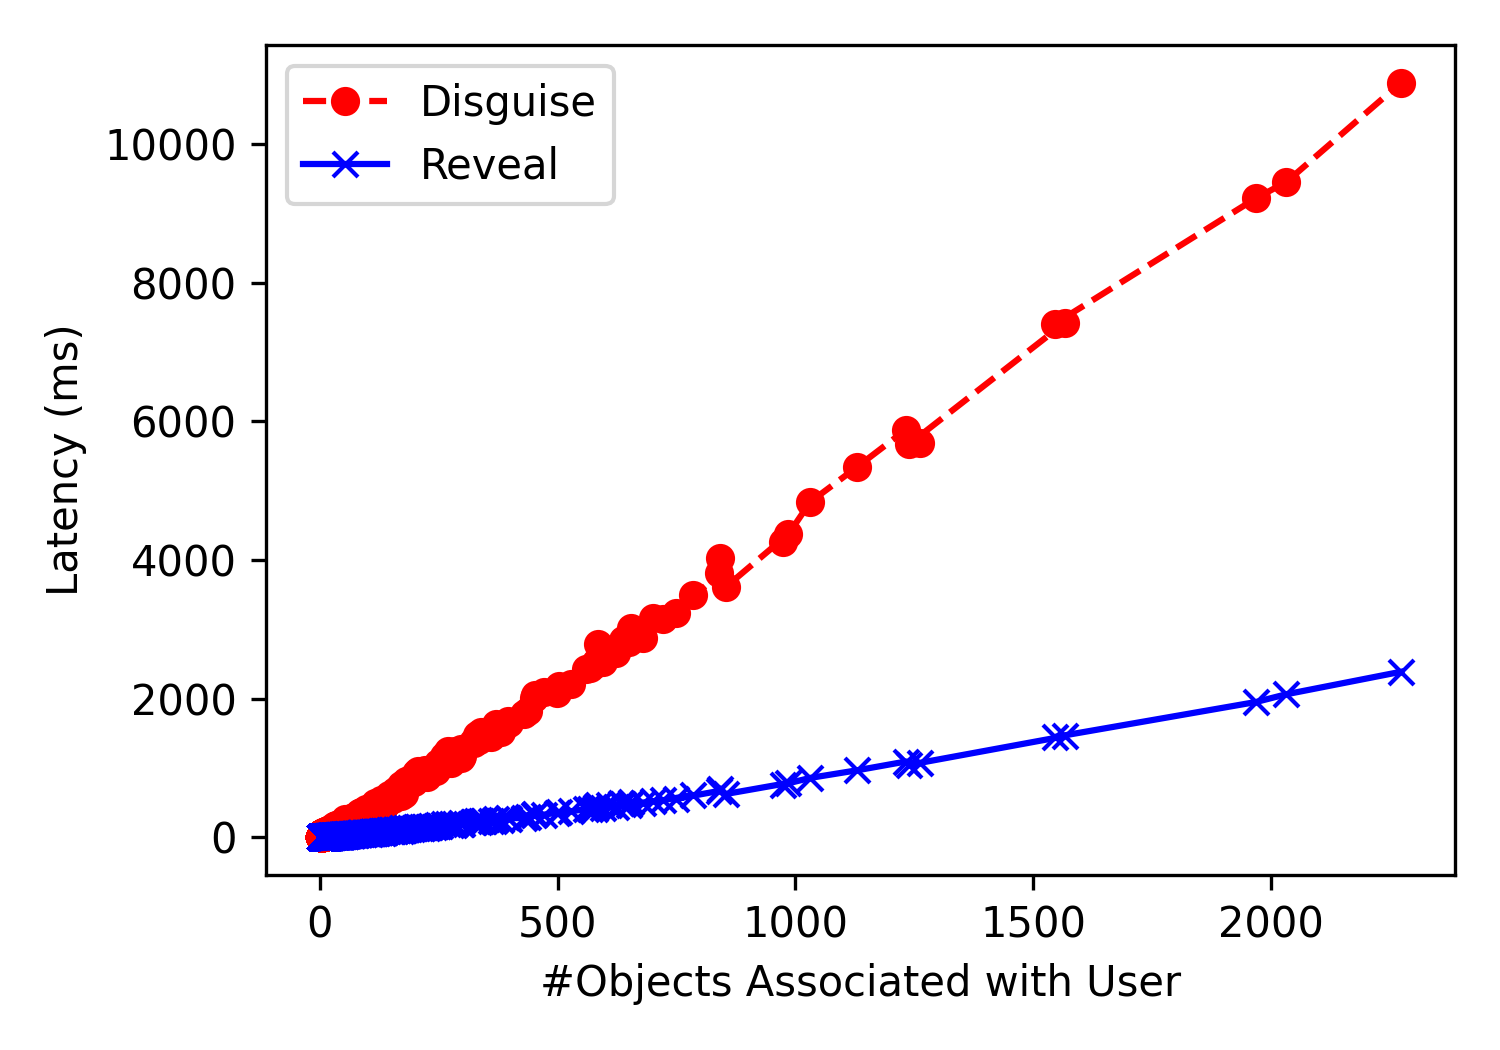
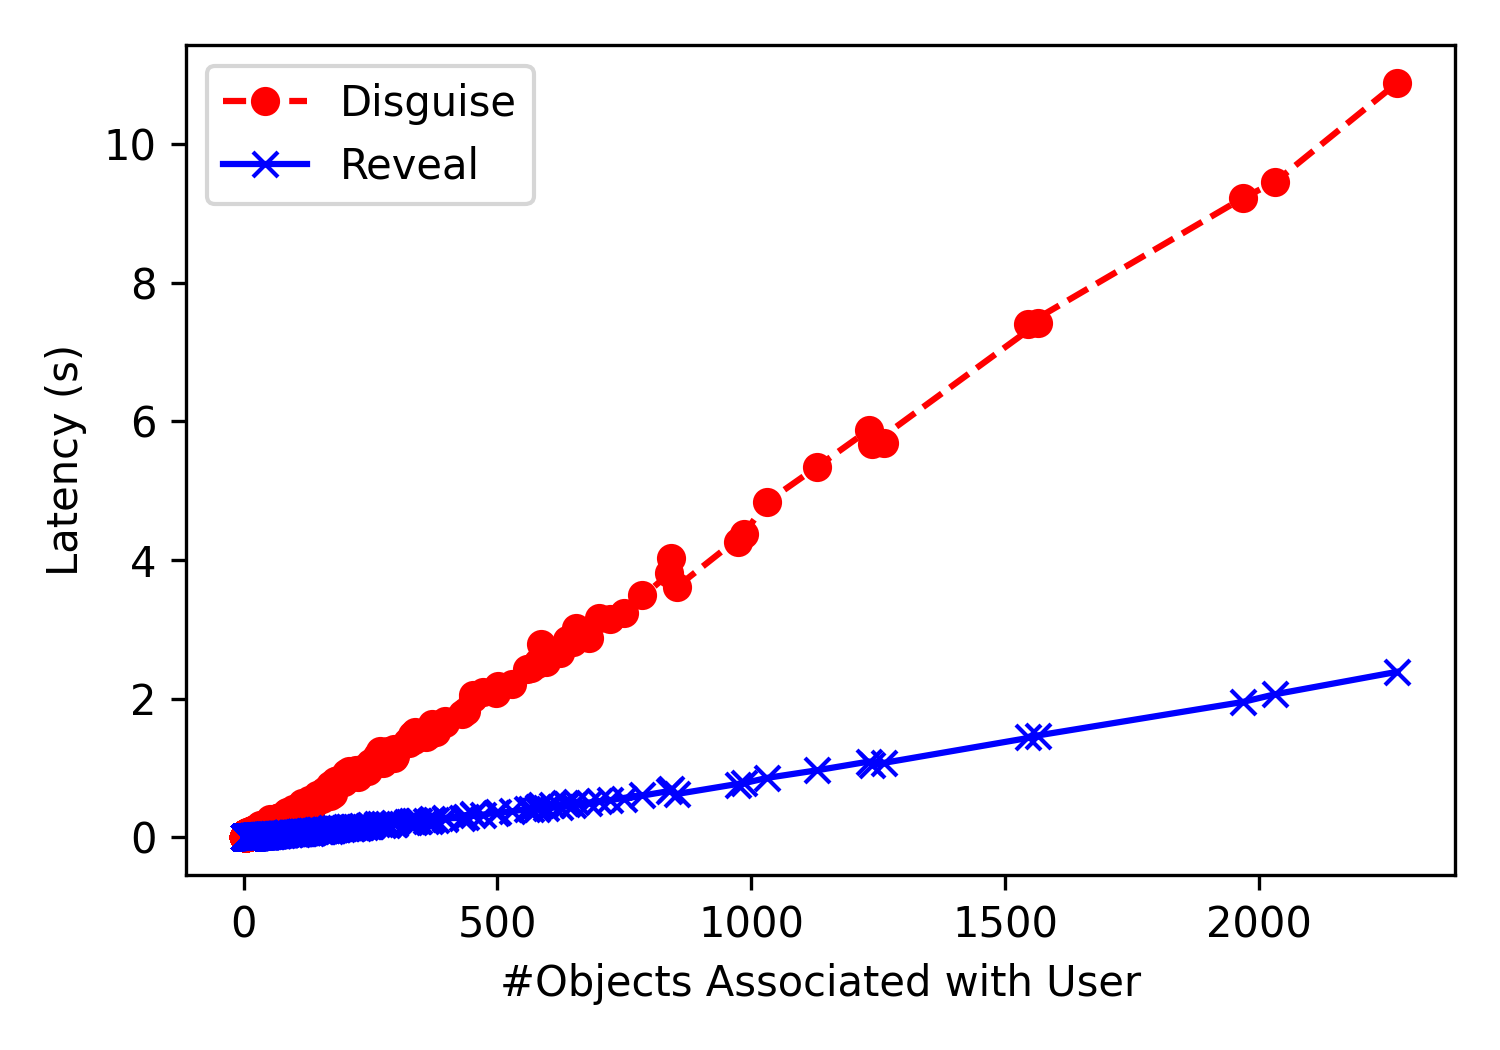
use seconds

diff --git a/decor/benchmarks/plot_unsub.py b/decor/benchmarks/plot_unsub.py
@@ -19,14 +19,14 @@ for test in tests:
         for (i, row) in enumerate(rows):
             p = row.split(',')
             nobjs.append(int(p[1]))
-            disg.append(int(p[2])/1000)
-            rev.append(int(p[3])/1000)
+            disg.append(int(p[2])/1000000)
+            rev.append(int(p[3])/1000000)
 
     plt.figure(figsize=(5,3.5))
     plt.plot(nobjs, disg, color='red', linestyle='--', marker="o", label="Disguise")
     plt.plot(nobjs, rev, color='blue', marker="x", label="Reveal")
     plt.xlabel("#Objects Associated with User")
-    plt.ylabel("Latency (ms)")
+    plt.ylabel("Latency (s)")
     plt.legend()
     plt.tight_layout()
     plt.savefig('{}.png'.format(test), dpi=300)
